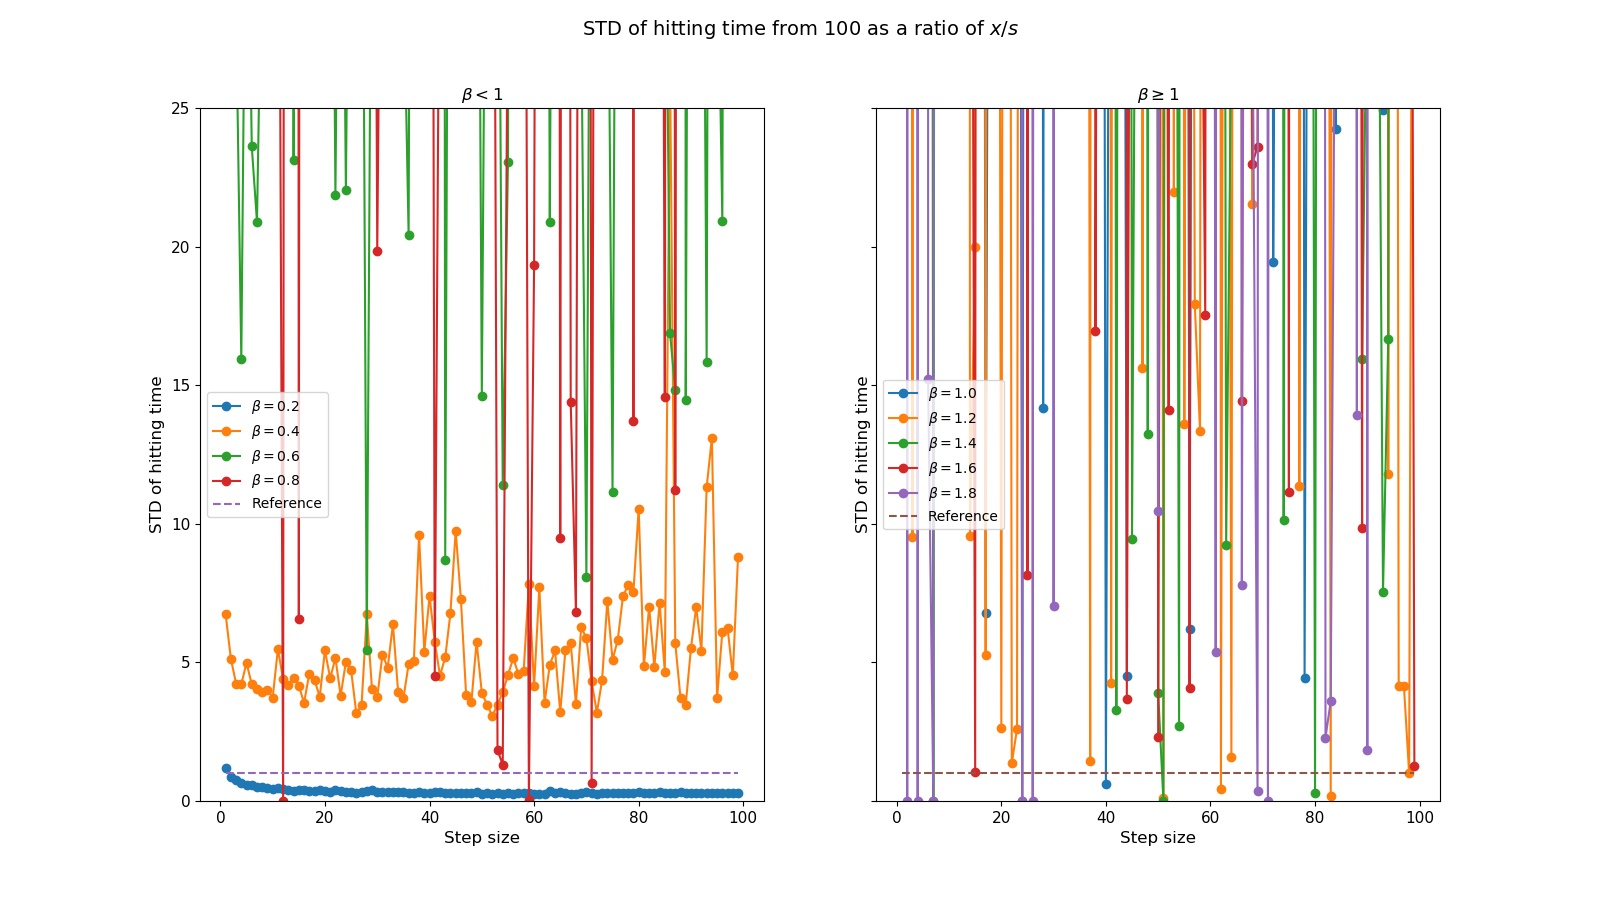
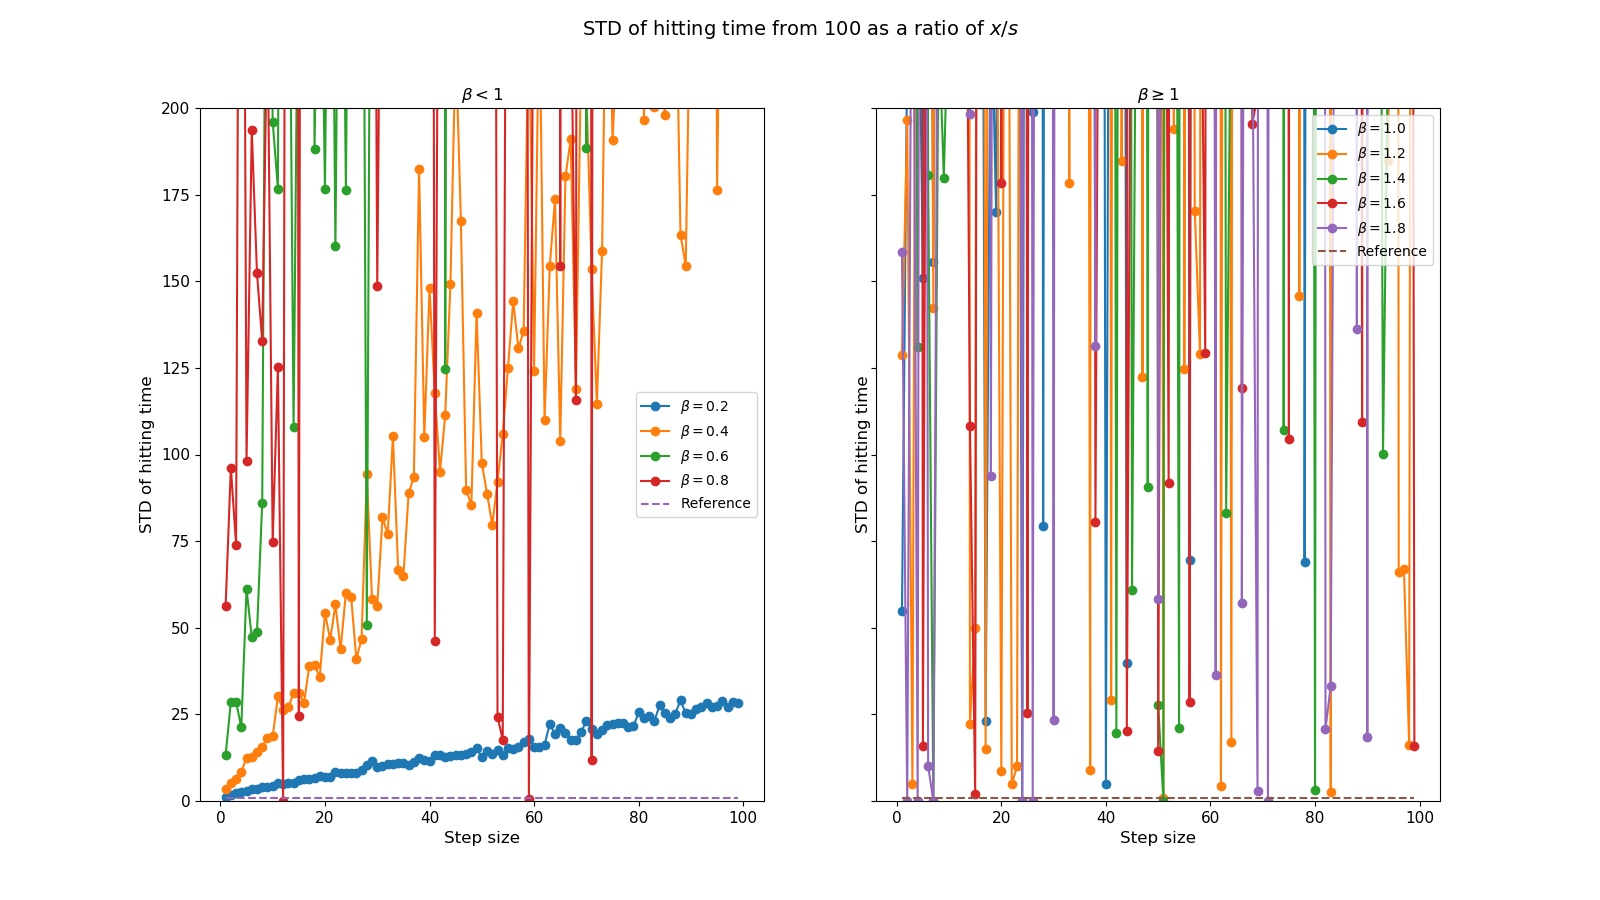
Fixed ratio plot generation to plot correct arrays

diff --git a/src/varstep/plotmaker_ratio.py b/src/varstep/plotmaker_ratio.py
@@ -11,8 +11,7 @@ reference = [1 for s in step_sizes]
 
 # calculate the ratios
 means_ratio = [[ m/(init_pos/s) for m,s in zip(ms, step_sizes) ] for ms in means]
-means_ratio = map((lambda m, s: m/(init_pos/s)), means, step_sizes)
-stds_ratio = map((lambda m, s: m/(init_pos/s)), stds, step_sizes)
+stds_ratio = [[ v/(init_pos/s) for v,s in zip(ss, step_sizes) ] for ss in stds]
 
 # set some plotting settings
 title_fontsize = 14
@@ -36,7 +35,7 @@ for splot in m_splots:
     splot.set_xlabel('Step size', fontsize=label_fontsize)
     splot.set_ylabel('Mean hitting time', fontsize=label_fontsize)
     splot.tick_params(axis='both', labelsize=axis_fontsize)
-    splot.set_ybound(0,25)
+    splot.set_ybound(0,200)
 m_splots[0].set_title(r'$\beta < 1$', fontsize=label_fontsize)
 m_splots[1].set_title(r'$\beta \geq 1$', fontsize=label_fontsize)
 
@@ -59,7 +58,7 @@ for splot in s_splots:
     splot.set_xlabel('Step size', fontsize=label_fontsize)
     splot.set_ylabel('STD of hitting time', fontsize=label_fontsize)
     splot.tick_params(axis='both', labelsize=axis_fontsize)
-    splot.set_ybound(0,25)
+    splot.set_ybound(0,200)
 s_splots[0].set_title(r'$\beta < 1$', fontsize=label_fontsize)
 s_splots[1].set_title(r'$\beta \geq 1$', fontsize=label_fontsize)
 
